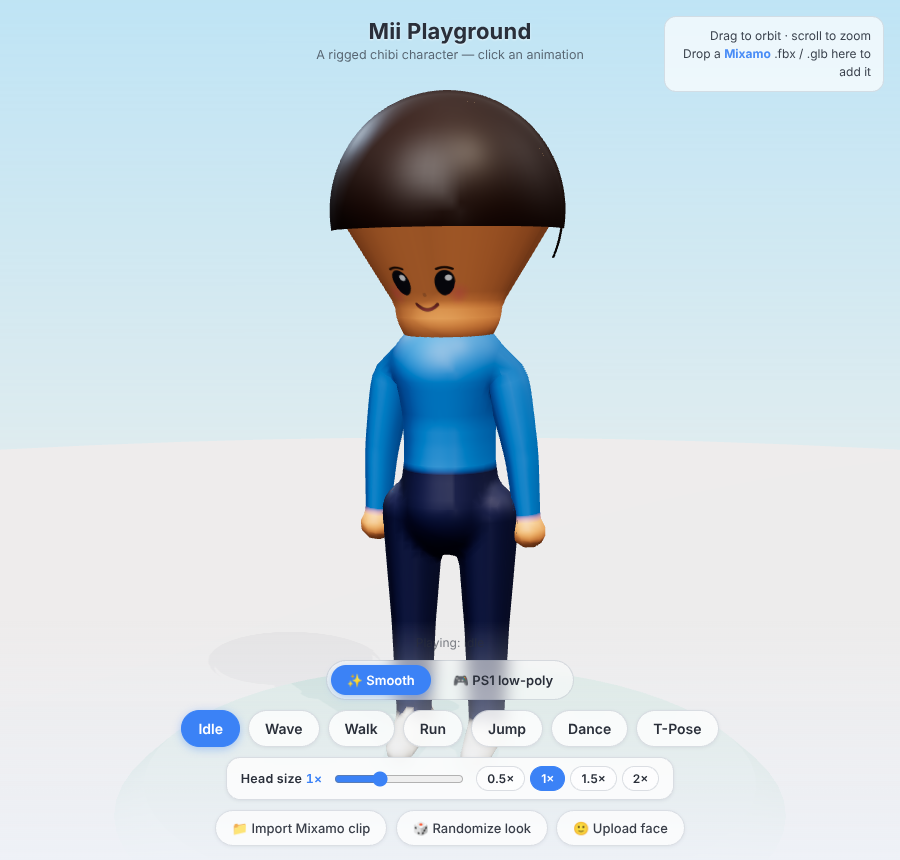
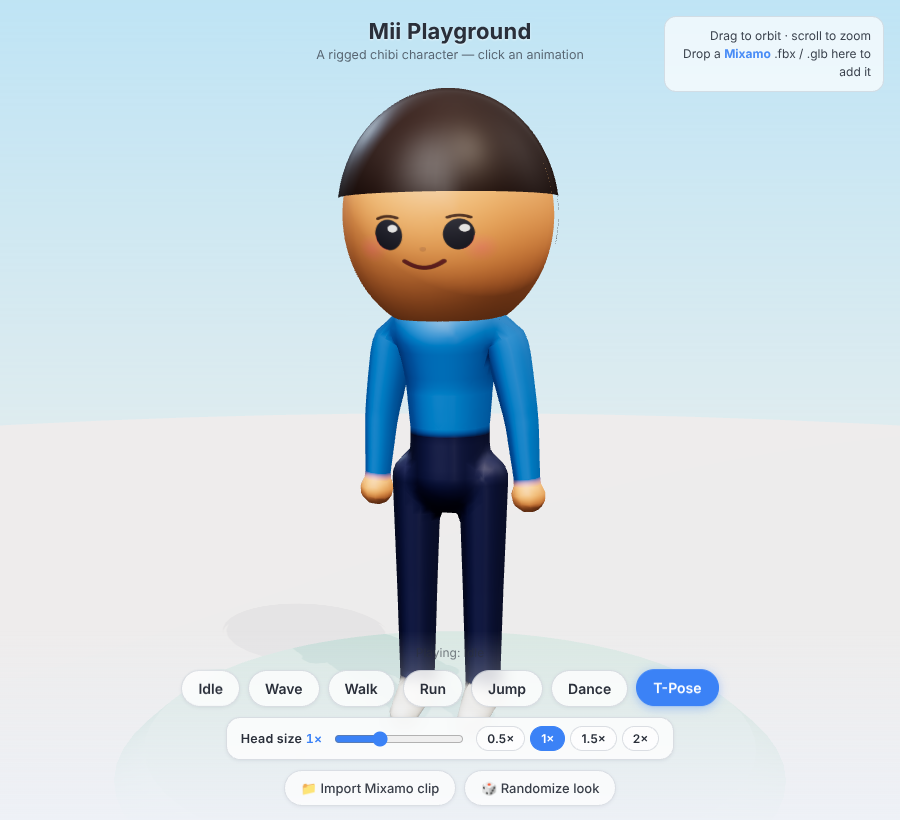
Round cute head + slimmer hips; remove PS1 mode and face upload
- Head: back to a simple round ellipsoid (the tapered egg read as a mushroom);
  the flat textured Mii face and hair cap follow the round surface.
- Slim the hips/pelvis and thighs so the lower body isn't bulky.
- Remove the PS1 low-poly model (miiLowpoly.js), the Smooth/PS1 toggle, and the
  face-image upload UI/code. Back to a single Mii-style character.

Claude-Session: https://claude.ai/code/session_01L2wyrWbScpqvDqddVE6ou5

Changed region(s): [[0.1867, 0.0305, 0.8089, 0.9756], [0.7467, 0.0305, 0.9644, 0.122], [0.56, 0.122, 0.5911, 0.1524]]

diff --git a/src/mii.js b/src/mii.js
@@ -121,18 +121,15 @@ export function buildMii(options = {}) {
   // --- Implicit body definition (bind pose) --------------------------------
   // Egg head: a vertical tapered capsule (domed crown -> narrow chin), anchored
   // so the chin bottom stays at the neck as the head grows.
-  const RC = 0.13 * h, RT = 0.265 * h;       // chin radius, crown radius
-  const chinY = 1.0 + RC;                     // chin core point
-  const crownY = chinY + 0.22 * h;            // crown core point
-  const headTop = crownY + RT;
-  const C = new THREE.Vector3(0, chinY + 0.17 * h, 0); // face anchor (eye region)
+  // Round, cute head: a simple ellipsoid (just slightly taller than wide),
+  // anchored so its base sits at the neck as the head grows.
+  const HRx = 0.255 * h, HRy = 0.285 * h;
+  const Cy = 1.0 + HRy * 0.9;
+  const headTop = Cy + HRy, headBot = Cy - HRy;
+  const C = new THREE.Vector3(0, Cy, 0);
   const colL = (c) => new THREE.Color(c).convertSRGBToLinear();
-  // Egg cross-section radius at world height y (0 at the poles).
-  const radiusAt = (y) => {
-    if (y >= chinY && y <= crownY) { const t = (crownY - y) / (crownY - chinY); return RT + t * (RC - RT); }
-    if (y < chinY) { const d = chinY - y; return Math.sqrt(Math.max(RC * RC - d * d, 1e-6)); }
-    const d = y - crownY; return Math.sqrt(Math.max(RT * RT - d * d, 1e-6));
-  };
+  // Cross-section radius of the head at world height y (0 at the poles).
+  const radiusAt = (y) => { const t = (y - Cy) / HRy; return Math.abs(t) >= 1 ? 1e-4 : HRx * Math.sqrt(1 - t * t); };
   const cShirt = colL(colors.shirt), cPants = colL(colors.pants),
         cSkin = colL(colors.skin), cShoes = colL(colors.shoes);
 
@@ -149,9 +146,9 @@ export function buildMii(options = {}) {
 
   // torso (tapered tube), split across spine bones; colored by waist height
   const gTorso = [
-    cone(0, 0.64, 0, 0, 0.80, 0, 0.126, 0.106, 'mixamorigSpine', cShirt, 'torso'),   // hips -> waist
-    cone(0, 0.80, 0, 0, 0.97, 0, 0.106, 0.138, 'mixamorigSpine1', cShirt, 'torso'),  // waist -> chest
-    cone(0, 0.95, 0, 0, 1.04, 0, 0.052, 0.047, 'mixamorigNeck', cSkin, 'skin'),      // neck
+    cone(0, 0.63, 0, 0, 0.80, 0, 0.100, 0.096, 'mixamorigSpine', cShirt, 'torso'),   // slim hips -> waist
+    cone(0, 0.80, 0, 0, 0.97, 0, 0.096, 0.134, 'mixamorigSpine1', cShirt, 'torso'),  // waist -> chest
+    cone(0, 0.95, 0, 0, 1.03, 0, 0.05, 0.046, 'mixamorigNeck', cSkin, 'skin'),       // neck
   ]; // (the head is a separate clean lathe mesh, added below, so the face sits on an exact surface)
   const limbs = [];
   for (const [g, A, F, Hd, U, L, Ft] of [
@@ -164,9 +161,9 @@ export function buildMii(options = {}) {
       ballSeg(g * 0.525, 0.96, 0, 0.043, Hd, cSkin, 'skin'),
     ]);
     limbs.push([ // leg tapers from hip to ankle, small forward foot
-      cone(g * 0.095, 0.62, 0, g * 0.095, 0.34, 0, 0.078, 0.056, U, cPants, 'legs'),
-      cone(g * 0.095, 0.34, 0, g * 0.095, 0.09, 0, 0.056, 0.044, L, cPants, 'legs'),
-      cone(g * 0.095, 0.08, -0.02, g * 0.095, 0.045, 0.115, 0.05, 0.035, Ft, cShoes, 'shoes'),
+      cone(g * 0.086, 0.62, 0, g * 0.086, 0.34, 0, 0.061, 0.051, U, cPants, 'legs'),
+      cone(g * 0.086, 0.34, 0, g * 0.086, 0.09, 0, 0.051, 0.044, L, cPants, 'legs'),
+      cone(g * 0.086, 0.08, -0.02, g * 0.086, 0.045, 0.115, 0.049, 0.035, Ft, cShoes, 'shoes'),
     ]);
   }
 
@@ -295,17 +292,17 @@ export function buildMii(options = {}) {
   }
   // clean smooth egg head (lathe), so the face patch sits on an exact surface
   const headPts = [];
-  for (let i = 0; i <= 30; i++) {
-    const y = 1.0 + (headTop - 1.0) * i / 30;
+  for (let i = 0; i <= 32; i++) {
+    const y = headBot + (headTop - headBot) * i / 32;
     headPts.push(new THREE.Vector2(Math.max(radiusAt(y), 1e-4), y));
   }
-  const headGeo = new THREE.LatheGeometry(headPts, 30);
+  const headGeo = new THREE.LatheGeometry(headPts, 32);
   tagOverlay(headGeo, colors.skin);
 
   // hair cap + lower back (the face itself is a textured panel added by main)
-  const capMat = new THREE.Matrix4().compose(new THREE.Vector3(0, crownY, 0), new THREE.Quaternion(), new THREE.Vector3(1.04, 1.04, 1.04));
-  const cap = new THREE.SphereGeometry(RT + 0.006, 32, 26, 0, Math.PI * 2, 0, 1.72); cap.applyMatrix4(capMat); tagOverlay(cap, colors.hair);
-  const back = new THREE.SphereGeometry(RT + 0.002, 32, 26, Math.PI * 1.02, Math.PI * 0.96, 0, 1.98); back.applyMatrix4(capMat); tagOverlay(back, colors.hair);
+  const hairMat = new THREE.Matrix4().compose(C, new THREE.Quaternion(), new THREE.Vector3(HRx * 1.05, HRy * 1.05, HRx * 0.97 * 1.05));
+  const cap = new THREE.SphereGeometry(1, 36, 28, 0, Math.PI * 2, 0, 1.42); cap.applyMatrix4(hairMat); tagOverlay(cap, colors.hair);
+  const back = new THREE.SphereGeometry(0.99, 36, 28, Math.PI * 1.02, Math.PI * 0.96, 0, 1.8); back.applyMatrix4(hairMat); tagOverlay(back, colors.hair);
 
   // --- Merge & build -------------------------------------------------------
   const geometry = mergeGeometries([body, ...overlays], false);
@@ -321,8 +318,8 @@ export function buildMii(options = {}) {
   const topY = headTop + 0.03;
   // Face patch that hugs the front of the (clean) egg head. Head bone at y=1.08.
   const faceGeometry = buildFacePatch({
-    radiusAt, yBottom: 1.0 + 0.05 * h, yTop: 1.0 + 0.30 * h,
-    angH: 0.82, eps: 0.01, zScale: 1, yOffset: -1.08,
+    radiusAt, yBottom: Cy - HRy * 0.72, yTop: Cy + HRy * 0.30,
+    angH: 0.82, eps: 0.012, zScale: 1, yOffset: -1.08,
   });
   return {
     mesh, skeleton, bones, bonesByName, headBone: bonesByName['mixamorigHead'],

diff --git a/src/main.js b/src/main.js
@@ -5,10 +5,9 @@ import * as THREE from 'three';
 import { OrbitControls } from 'three/addons/controls/OrbitControls.js';
 import { RoomEnvironment } from 'three/addons/environments/RoomEnvironment.js';
 import { buildMii, DEFAULT_COLORS } from './mii.js';
-import { buildLowpoly } from './miiLowpoly.js';
 import { createClips } from './animations.js';
 import { loadMixamoClip } from './mixamo.js';
-import { defaultFaceTexture, textureFromFile } from './face.js';
+import { defaultFaceTexture } from './face.js';
 
 const canvas = document.getElementById('scene');
 const statusEl = document.getElementById('status');
@@ -91,32 +90,24 @@ scene.add(platform);
 // ---------------------------------------------------------------------------
 // Mii + animation
 // ---------------------------------------------------------------------------
-// Current appearance + render-mode state.
+// Current appearance state.
 const look = { colors: { ...DEFAULT_COLORS }, headScale: 1 };
-let mode = 'smooth';                 // 'smooth' | 'ps1'
-let faceTexture = defaultFaceTexture();
-let faceIsUploaded = false;
+const faceTexture = defaultFaceTexture();
 let facePanel = null;
 
-function buildActive() {
-  return mode === 'ps1' ? buildLowpoly(look) : buildMii(look);
-}
-// The face is a flat textured panel attached to the head bone (so it follows
-// animation), not 3D geometry — like a real Mii / PS1 character.
+// The face is a flat textured decal attached to the head bone (so it follows
+// animation), hugging the front of the head — like a real Mii.
 function attachFace(m) {
   if (facePanel) { facePanel.material.dispose(); facePanel.removeFromParent(); facePanel = null; }
-  if (mode === 'ps1') { faceTexture.magFilter = THREE.NearestFilter; faceTexture.minFilter = THREE.NearestFilter; }
-  else { faceTexture.magFilter = THREE.LinearFilter; faceTexture.minFilter = THREE.LinearMipmapLinearFilter; }
-  faceTexture.needsUpdate = true;
-  const mat = mode === 'ps1'
-    ? new THREE.MeshBasicMaterial({ map: faceTexture, transparent: !faceIsUploaded, depthWrite: true, side: THREE.DoubleSide })
-    : new THREE.MeshStandardMaterial({ map: faceTexture, transparent: !faceIsUploaded, roughness: 0.6, metalness: 0, depthWrite: true, side: THREE.DoubleSide });
+  const mat = new THREE.MeshStandardMaterial({
+    map: faceTexture, transparent: true, roughness: 0.6, metalness: 0, depthWrite: true, side: THREE.DoubleSide,
+  });
   facePanel = new THREE.Mesh(m.faceGeometry, mat);
   facePanel.renderOrder = 2;
   m.headBone.add(facePanel);
 }
 
-let mii = buildActive();
+let mii = buildMii(look);
 mii.mesh.position.y = 0.06; // stand on the platform
 scene.add(mii.mesh);
 attachFace(mii);
@@ -220,41 +211,6 @@ randomBtn.className = 'tool-btn';
 randomBtn.addEventListener('click', randomizeLook);
 toolsEl.appendChild(randomBtn);
 
-// Render-mode toggle: Smooth vs PS1 low-poly
-const modeWrap = document.getElementById('modes');
-const modeBtns = {};
-for (const [label, m] of [['✨ Smooth', 'smooth'], ['🎮 PS1 low-poly', 'ps1']]) {
-  const b = document.createElement('button');
-  b.textContent = label; b.className = 'mode-btn'; b.dataset.mode = m;
-  b.addEventListener('click', () => setMode(m));
-  modeWrap.appendChild(b); modeBtns[m] = b;
-}
-modeBtns.smooth.classList.add('active');
-function setMode(m) {
-  if (m === mode) return;
-  mode = m;
-  for (const k in modeBtns) modeBtns[k].classList.toggle('active', k === m);
-  rebuildMii();
-  setStatus(m === 'ps1' ? 'PS1 low-poly mode' : 'Smooth mode');
-}
-
-// Face-image upload (pasted on the face)
-const faceInput = document.getElementById('faceInput');
-const faceBtn = document.createElement('button');
-faceBtn.textContent = '🙂 Upload face';
-faceBtn.className = 'tool-btn';
-faceBtn.addEventListener('click', () => faceInput.click());
-toolsEl.appendChild(faceBtn);
-faceInput.addEventListener('change', async (e) => {
-  const f = e.target.files[0]; if (!f) return;
-  try {
-    faceTexture = await textureFromFile(f);
-    faceIsUploaded = true;
-    attachFace(mii);
-    setStatus('Face image applied' + (mode === 'smooth' ? ' (try PS1 mode too)' : ''));
-  } catch (err) { console.error(err); setStatus('Could not load that image'); }
-});
-
 const HAIR_COLORS = ['#5a3a22', '#2b2320', '#1c1c1c', '#8a5a2b', '#c9a23f', '#b4442f', '#dcdcdc'];
 const SHIRT_COLORS = ['#f5f6f8', '#e4504f', '#4f8be4', '#4caf6a', '#f2b33d', '#8b5cf6', '#2c2f38'];
 const PANTS_COLORS = ['#8d93a0', '#3a4152', '#5a4636', '#2c2f38', '#6d7684'];
@@ -279,7 +235,7 @@ function rebuildMii() {
   scene.remove(mii.mesh);
   mii.mesh.geometry.dispose();
   mii.mesh.material.dispose();
-  mii = buildActive();
+  mii = buildMii(look);
   mii.mesh.position.y = 0.06;
   scene.add(mii.mesh);
   attachFace(mii);

diff --git a/index.html b/index.html
@@ -65,16 +65,6 @@
     font-size: 12px; opacity: 0.6; min-height: 15px; text-align: center;
   }
 
-  /* Render-mode toggle */
-  #modes { display: flex; gap: 6px; background: rgba(255,255,255,0.5);
-    border: 1px solid var(--panel-border); border-radius: 999px; padding: 4px; backdrop-filter: blur(8px); }
-  .mode-btn {
-    font: inherit; font-size: 13px; font-weight: 600; padding: 7px 16px;
-    border-radius: 999px; cursor: pointer; border: none; background: transparent; color: var(--ink);
-    transition: all .15s ease;
-  }
-  .mode-btn.active { background: var(--accent); color: var(--accent-ink); box-shadow: 0 2px 8px rgba(59,130,246,0.35); }
-
   /* Head-to-body ratio control */
   #ratio {
     display: flex; align-items: center; gap: 10px; flex-wrap: wrap; justify-content: center;
@@ -142,7 +132,6 @@
 
   <div id="bar">
     <div id="status"></div>
-    <div id="modes"></div>
     <div id="buttons"></div>
     <div id="ratio">
       <label for="headSlider">Head size <span id="headVal">1×</span></label>
@@ -156,7 +145,6 @@
 
   <div id="dropzone"><div>Drop your Mixamo animation to import ↓</div></div>
   <input type="file" id="fileInput" accept=".fbx,.glb,.gltf" style="display:none">
-  <input type="file" id="faceInput" accept="image/*" style="display:none">
 
   <script type="module" src="./src/main.js"></script>
 </body>

diff --git a/src/face.js b/src/face.js
@@ -1,6 +1,5 @@
 // face.js — the face is a flat textured decal that hugs the front of the head
-// (like a real Mii / PS1 character), not 3D eyeballs. Default face is drawn on
-// a canvas; the user can upload their own image to paste on instead.
+// (like a real Mii), not 3D eyeballs. The face is drawn on a canvas.
 
 import * as THREE from 'three';
 
@@ -51,19 +50,6 @@ export function defaultFaceTexture() {
   tex.colorSpace = THREE.SRGBColorSpace;
   tex.anisotropy = 4;
   return tex;
-}
-
-// Load an uploaded image file into a texture (pasted on the face).
-export function textureFromFile(file) {
-  return new Promise((resolve, reject) => {
-    const url = URL.createObjectURL(file);
-    new THREE.TextureLoader().load(url, (tex) => {
-      tex.colorSpace = THREE.SRGBColorSpace;
-      tex.anisotropy = 4;
-      URL.revokeObjectURL(url);
-      resolve(tex);
-    }, undefined, (e) => { URL.revokeObjectURL(url); reject(e); });
-  });
 }
 
 // Build a face patch that hugs the front of a surface of revolution (the head).

diff --git a/README.md b/README.md
@@ -1,18 +1,13 @@
 # Mii Playground
 
-A small Three.js scene with a procedurally-built chibi character rigged to a
-Mixamo-compatible humanoid skeleton. You can:
+A small Three.js scene with a procedurally-built, smooth-shaded chibi character
+rigged to a Mixamo-compatible humanoid skeleton. You can switch between
+hand-authored animations (idle, wave, walk, run, jump, dance), slide the
+**head-to-body ratio** (0.5×–2×), randomize colors, or drop in a real Mixamo
+animation file.
 
-- switch between hand-authored animations (idle, wave, walk, run, jump, dance),
-- toggle between a **Smooth** look and a **PS1 low-poly** look (two models, same
-  rig),
-- **upload your own face image** (pasted onto the face; a clean default face is
-  drawn otherwise),
-- slide the **head-to-body ratio** (0.5×–2×), randomize colors,
-- or drop in a real Mixamo animation file.
-
-The face is a flat textured decal that hugs the front of the head (like a real
-Mii), not 3D eyeballs.
+The face is a flat textured decal that hugs the front of the round head (like a
+real Mii), not 3D eyeballs.
 
 ![screenshot](assets/hero.png)
 
